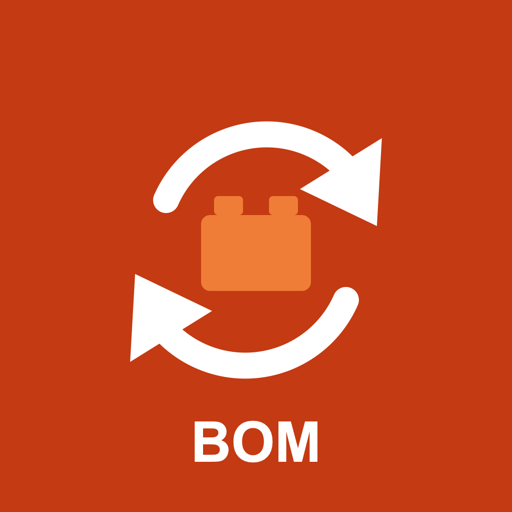
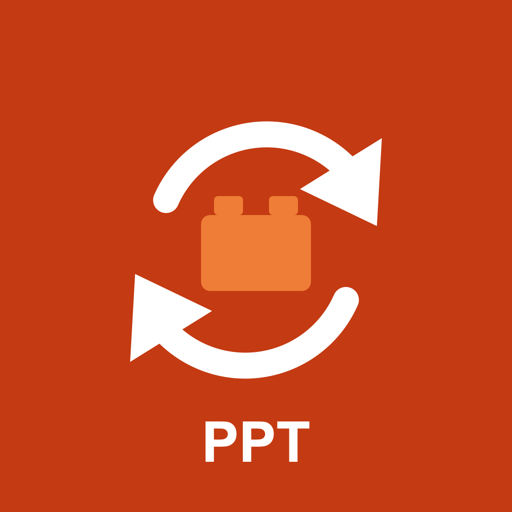
Rename: app is Build PPT Designer; the standalone parts list is BOM Designer
Title, install name (PPT Designer), icon text and header logo updated; the
Parts list button, tag and dialog now say BOM Designer / BOM.

Changed region(s): [[0.375, 0.8125, 0.625, 0.9062]]

diff --git a/src/main.js b/src/main.js
@@ -153,15 +153,15 @@ async function detailsDialog(build, { list = isPartsList(build) } = {}) {
   const first = (chosen) => list ? `<option value="" ${chosen ? "" : "selected"}>Not set</option>` : build ? "" : '<option value="" selected disabled>Choose</option>';
   return dialog(`
     <form method="dialog" class="details">
-      <h2>${list ? (build ? "Parts list details" : "New parts list") : build ? "Build details" : "New build"}</h2>
-      <label>${list ? "List name" : "Build name"}<input name="name" required maxlength="${MAX_NAME}" autocomplete="off" placeholder="${list ? "e.g. Tipper Truck parts" : "e.g. Tipper Truck"}" value="${esc(build?.name)}"></label>
+      <h2>${list ? (build ? "BOM details" : "New BOM") : build ? "Build details" : "New build"}</h2>
+      <label>${list ? "BOM name" : "Build name"}<input name="name" required maxlength="${MAX_NAME}" autocomplete="off" placeholder="${list ? "e.g. Tipper Truck parts" : "e.g. Tipper Truck"}" value="${esc(build?.name)}"></label>
       <div class="row">
         <label>Grade${list ? " (optional)" : ""}<select name="grade" ${list ? "" : "required"}>${first(build?.grade)}${range(MIN_GRADE, MAX_GRADE, build?.grade)}</select></label>
         <label>Session${list ? " (optional)" : ""}<select name="session" ${list ? "" : "required"}>${first(build?.session)}${range(MIN_SESSION, MAX_SESSION, build?.session)}</select></label>
       </div>
       <label>Parts library<select name="kit" ${build?.steps.some(s => s.parts.length) || build?.bom?.extras?.length ? "disabled" : ""}>${kits.map(k => `<option value="${esc(k.id)}" ${k.id === (build?.kit ?? kits[0].id) ? "selected" : ""}>${esc(k.name)}</option>`).join("")}</select></label>
       <div class="dialog-actions"><button type="button" class="btn ghost" data-close>Cancel</button>
-      <button class="btn primary">${build ? "Save" : list ? "Start list" : "Start build"}</button></div>
+      <button class="btn primary">${build ? "Save" : list ? "Create BOM" : "Start build"}</button></div>
     </form>`,
   (el, close) => {
     const form = el.querySelector("form");
@@ -182,27 +182,27 @@ async function renderHome() {
   const builds = await listBuilds();
   const names = Object.fromEntries((await loadKits()).map(k => [k.id, k.name]));
   app.innerHTML = `
-    <header class="bar"><div class="brand"><span class="mark"></span><div><h1>BOM Designer</h1><p>Build guides and parts lists</p></div></div></header>
+    <header class="bar"><div class="brand"><span class="mark"></span><div><h1>Build PPT Designer</h1><p>Build guides and BOMs</p></div></div></header>
     <section class="page">
       ${builds.length ? `<ul class="build-list">${builds.map(b => `
         <li class="build-row"><a href="#/build/${esc(b.id)}${isPartsList(b) ? "/bom" : ""}" class="build-card">
-          <strong>${isPartsList(b) ? `<i class="tag">Parts list</i>` : ""}${esc(b.name)}</strong>
+          <strong>${isPartsList(b) ? `<i class="tag">BOM</i>` : ""}${esc(b.name)}</strong>
           <span>${b.grade && b.session ? `Grade ${b.grade} · Session ${b.session} · ` : ""}${esc(names[b.kit] ?? b.kit)}</span>
           <span class="meta">${isPartsList(b)
             ? `${(b.bom?.extras ?? []).length} part${(b.bom?.extras ?? []).length === 1 ? "" : "s"}`
             : `${b.steps.length} step${b.steps.length === 1 ? "" : "s"}`} · edited ${new Date(b.updatedAt).toLocaleDateString()}</span>
         </a><button class="icon-btn delete-build" data-delete="${esc(b.id)}" aria-label="Delete ${esc(b.name)}">🗑</button></li>`).join("")}</ul>`
-      : `<div class="empty"><h2>No builds yet</h2><p>Start a build, photograph each step, pick the parts it uses and write the instruction. Generate Deck makes the PowerPoint.</p><p>Or make a <b>parts list</b>: just the Materials Required slides, with the parts you choose.</p></div>`}
+      : `<div class="empty"><h2>No builds yet</h2><p>Start a build, photograph each step, pick the parts it uses and write the instruction. Generate Deck makes the PowerPoint.</p><p>Or open the <b>BOM Designer</b>: just the Materials Required slides, with the parts you choose.</p></div>`}
       <p class="source-link"><a href="https://github.com/SherlyGuides/build-steps" target="_blank" rel="noopener">Source code</a> · AGPL-3.0</p>
     </section>
     <footer class="actions">
       <button class="btn secondary" id="import">Open file</button>
-      <button class="btn secondary" id="new-list">Parts list</button>
+      <button class="btn secondary" id="new-list">BOM Designer</button>
       <button class="btn primary" id="new">New build</button>
     </footer>`;
   app.querySelectorAll("[data-delete]").forEach(button => button.addEventListener("click", async () => {
     const build = builds.find(b => b.id === button.dataset.delete);
-    const what = isPartsList(build) ? "parts list" : "build";
+    const what = isPartsList(build) ? "BOM" : "build";
     if (!build || !(await confirmDialog(`Delete this ${what}?`, isPartsList(build)
       ? `"${build.name}" will be removed from this phone. Decks already made are not affected.`
       : `"${build.name}" and its ${build.steps.length} step photo${build.steps.length === 1 ? "" : "s"} will be removed from this phone. Decks already made are not affected. Save a build file first (⋯ → Save build file) if you may want it back.`, "Delete"))) return;
@@ -232,7 +232,7 @@ async function renderHome() {
     if (!file) return;
     try {
       const build = await importBuild(file);
-      toast(isPartsList(build) ? `Parts list "${build.name}" opened.` : `"${build.name}" opened with ${build.steps.length} steps.`);
+      toast(isPartsList(build) ? `BOM "${build.name}" opened.` : `"${build.name}" opened with ${build.steps.length} steps.`);
       location.hash = `#/build/${build.id}${isPartsList(build) ? "/bom" : ""}`;
     } catch (error) { fail(error); }
   });
@@ -380,7 +380,7 @@ async function buildMenu(build) {
     <div class="menu">
       <button class="btn secondary" data-choice="details">${list ? "Edit name, grade, session" : "Edit name, grade, session"}</button>
       <button class="btn secondary" data-choice="export">Save ${list ? "list" : "build"} file (backup / another device)</button>
-      <button class="btn danger-ghost" data-choice="delete">Delete ${list ? "parts list" : "build"}</button>
+      <button class="btn danger-ghost" data-choice="delete">Delete ${list ? "BOM" : "build"}</button>
     </div>
     <div class="dialog-actions"><button class="btn ghost" data-close>Close</button></div>`,
   (el, close) => el.querySelectorAll("[data-choice]").forEach(b => b.addEventListener("click", () => close(b.dataset.choice))));
@@ -399,7 +399,7 @@ async function buildMenu(build) {
       await offerFile(blob, buildFileName(build), build.name, list ? "List file ready" : "Build file ready");
     } catch (error) { busy(false); fail(error); }
   } else if (choice === "delete") {
-    if (!(await confirmDialog(`Delete this ${list ? "parts list" : "build"}?`, list ? `"${build.name}" will be removed from this phone. Decks already made are not affected.` : `"${build.name}" and its ${build.steps.length} step photos will be removed from this phone. Decks already made are not affected.`, "Delete"))) return;
+    if (!(await confirmDialog(`Delete this ${list ? "BOM" : "build"}?`, list ? `"${build.name}" will be removed from this phone. Decks already made are not affected.` : `"${build.name}" and its ${build.steps.length} step photos will be removed from this phone. Decks already made are not affected.`, "Delete"))) return;
     build.steps.forEach(s => photoImageIds(s.photo).forEach(forgetPhoto));
     await deleteBuild(build);
     location.hash = "#/";
@@ -493,7 +493,7 @@ async function renderBom(buildId, { picker = false } = {}) {
       <header class="bar">
         <a href="${list ? "#/" : `#/build/${esc(buildId)}`}" class="icon-btn" aria-label="${list ? "All builds" : "Back to steps"}">‹</a>
         <div class="title"><h1>${list ? esc(build.name) : "Materials required"}</h1><p>${list
-          ? `Parts list · ${rows.length} part${rows.length === 1 ? "" : "s"} · ${pieces} piece${pieces === 1 ? "" : "s"}`
+          ? `BOM · ${rows.length} part${rows.length === 1 ? "" : "s"} · ${pieces} piece${pieces === 1 ? "" : "s"}`
           : `${esc(build.name)} · ${pages.length > 1 ? `slides 2–${pages.length + 1}` : "slide 2"}`}</p></div>
         ${list ? `<button class="icon-btn" id="menu" aria-label="List options">⋯</button>` : ""}
       </header>

diff --git a/index.html b/index.html
@@ -4,15 +4,15 @@
   <meta charset="utf-8">
   <meta name="viewport" content="width=device-width, initial-scale=1, viewport-fit=cover">
   <meta name="theme-color" content="#C43A12">
-  <meta name="description" content="Design build instruction decks and parts lists (BOM) from your phone.">
+  <meta name="description" content="Design build instruction PowerPoints and BOMs (parts lists) from your phone.">
   <meta name="apple-mobile-web-app-capable" content="yes">
   <meta name="mobile-web-app-capable" content="yes">
-  <meta name="apple-mobile-web-app-title" content="BOM Designer">
+  <meta name="apple-mobile-web-app-title" content="PPT Designer">
   <meta name="apple-mobile-web-app-status-bar-style" content="black-translucent">
   <link rel="manifest" href="./manifest.webmanifest">
   <link rel="icon" href="./icon-192.png">
   <link rel="apple-touch-icon" href="./apple-touch-icon.png">
-  <title>BOM Designer</title>
+  <title>Build PPT Designer</title>
   <link rel="stylesheet" href="./src/style.css">
 </head>
 <body>

diff --git a/src/style.css b/src/style.css
@@ -41,7 +41,7 @@ a { color: inherit; text-decoration: none; }
 .bar h1 small { font-weight: 500; opacity: .8; font-size: 15px; }
 .bar p { font-size: 13px; opacity: .85; white-space: nowrap; overflow: hidden; text-overflow: ellipsis; }
 .brand { display: flex; align-items: center; gap: 12px; padding-left: 4px; }
-.mark { width: 34px; height: 34px; border-radius: 9px; background: #fff url(../slides/flip.svg) center/80% no-repeat; }
+.mark { width: 34px; height: 34px; border-radius: 9px; background: #fff url(../icon-192.png) center/cover no-repeat; }
 .nav-steps { display: flex; gap: 4px; }
 
 .icon-btn {

diff --git a/public/sw.js b/public/sw.js
@@ -1,6 +1,6 @@
 // Keeps the app usable without a connection once it has been opened.
 // Pages load from the network first (so updates arrive), everything else from the cache first.
-const CACHE = "build-steps-v3";
+const CACHE = "build-steps-v4";
 const CORE = ["./", "./index.html", "./manifest.webmanifest", "./library/kits.json", "./library/xplorer/parts.json",
   "./slides/bg1.jpg", "./slides/bg2.jpg", "./slides/bg3.jpg", "./slides/flip.svg", "./slides/turn.svg", "./icon-192.png"];
 

diff --git a/README.md b/README.md
@@ -1,10 +1,10 @@
-# BOM Designer
+# Build PPT Designer
 
-A phone-first web app for making ThinkPro **build instruction decks** (PowerPoint) and standalone **parts lists (BOM)**.
+A phone-first web app for making ThinkPro **build instruction decks** (PowerPoint) and standalone **BOMs** (parts lists) with the **BOM Designer**.
 
 1. **New build**: enter the build name, grade and session.
 2. **📷 Add step**: take the photo of the step (or use **🖼 Add steps from gallery** to pick one or more saved photos; each becomes a step, in the order selected), choose the part(s) it uses from the parts list, and type the instruction exactly as it should read on the slide. Steps that only **flip over** or **turn around** the assembly need no part; their slide shows the previous step's photo (before) on the left and this step's photo (after) on the right.
-**Parts list only:** the **Parts list** button on the home screen makes a standalone Materials Required deck: choose any parts from the library (or add all of them), set the quantities, and generate. The deck has only the Materials slides (12 per slide, no cover, steps or Thank You). Grade and session are optional.
+**BOM Designer:** the **BOM Designer** button on the home screen makes a standalone Materials Required deck: choose any parts from the library (or add all of them), set the quantities, and generate. The deck has only the Materials slides (12 per slide, no cover, steps or Thank You). Grade and session are optional.
 
 3. **Materials required** (the BOM) fills itself in from the parts chosen in the steps, with quantities added up. **Review & edit BOM** lets you change a quantity, hide a part or add an extra part that is not in any step. Edits sit on top of the automatic list, so it keeps updating as steps change, and ↺ returns a part to its automatic count.
 4. **Generate deck** makes `<Build>_G<grade>_S<session>_v<n>.pptx`:
